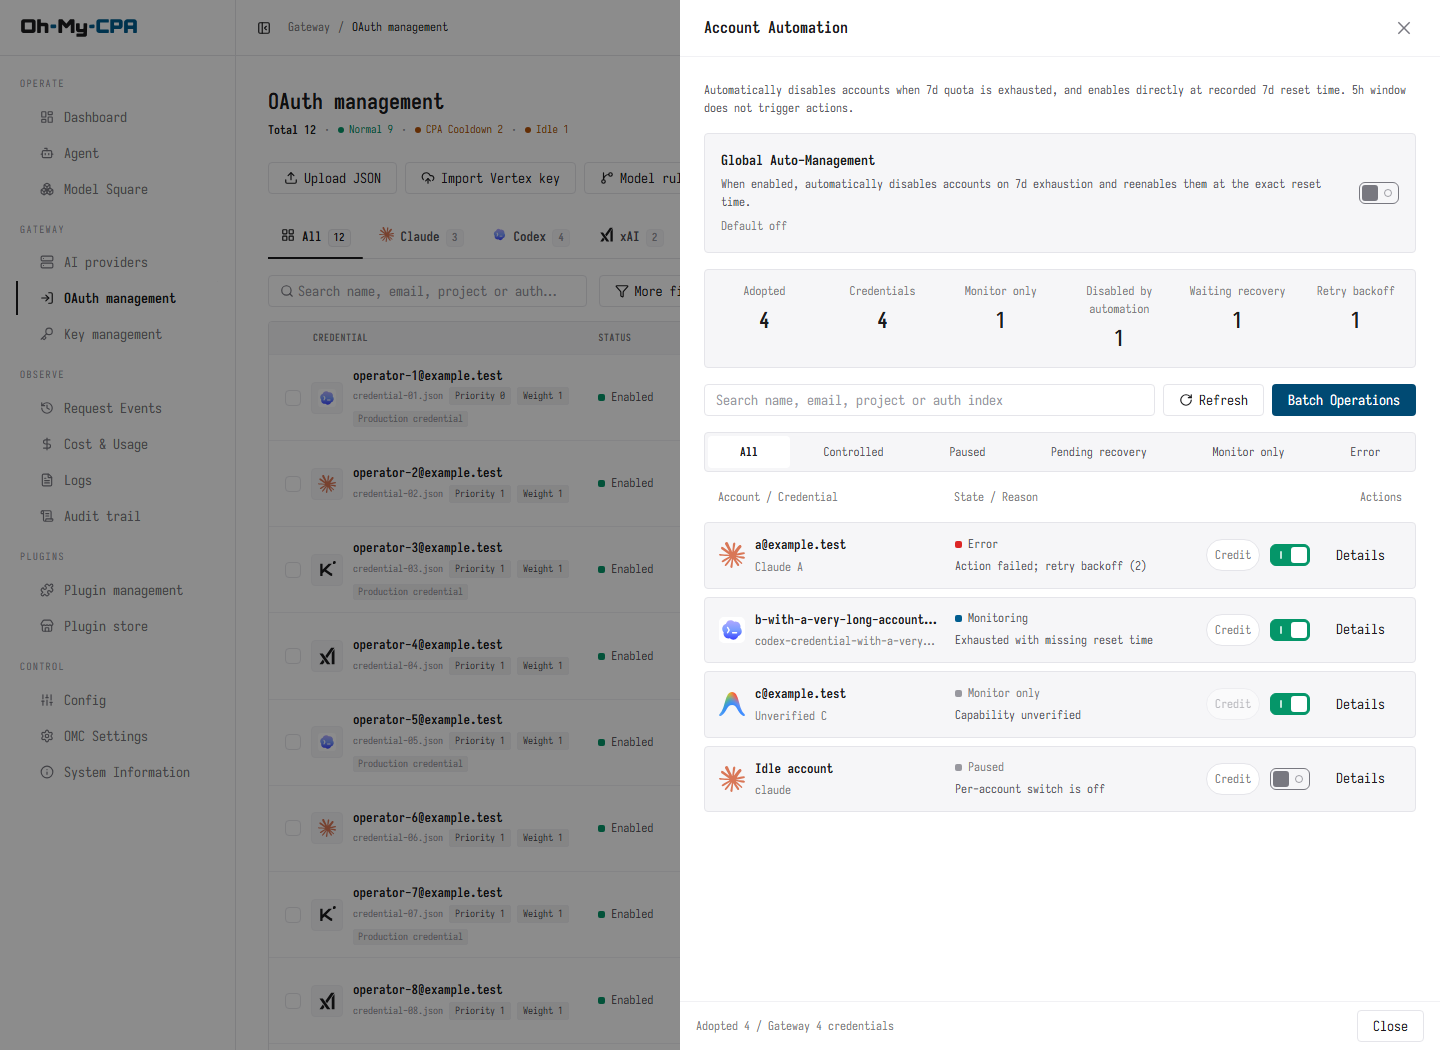
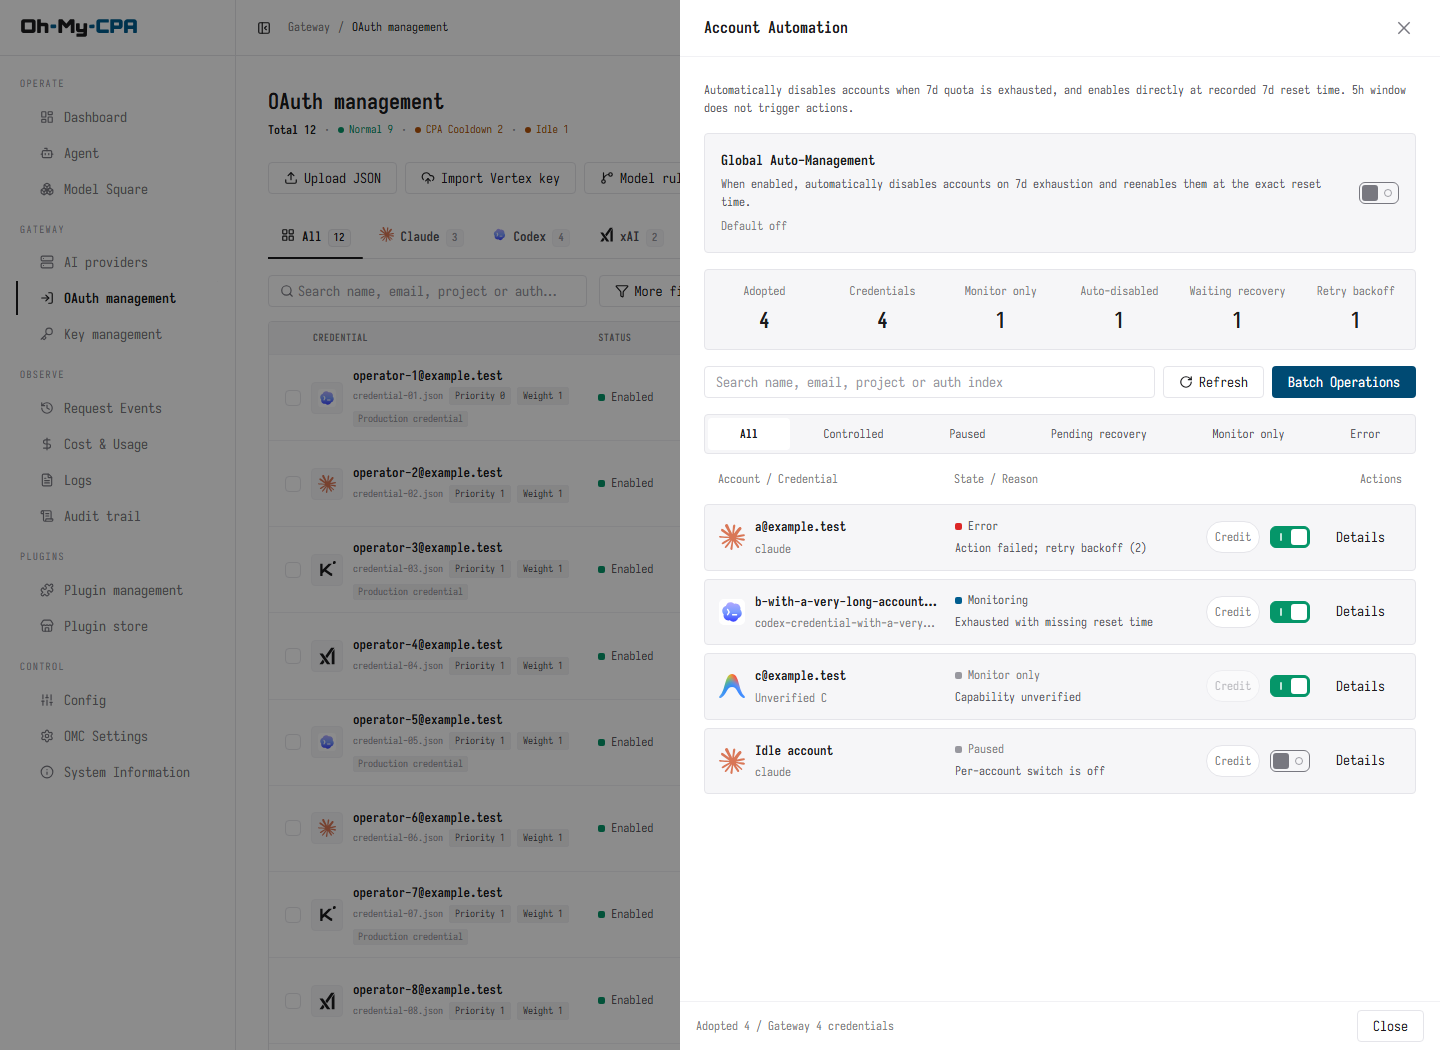
fix(automation): preserve identity mismatch reasons and drawer coverage

diff --git a/web/tests/account-automation.component.test.tsx b/web/tests/account-automation.component.test.tsx
@@ -85,6 +85,32 @@ it.each(['en', 'zh-CN'])('keeps active recovery distinct from historical timesta
   expect(row('Monitor').textContent).not.toMatch(/not auto-disabled|不参与自动关/);
 });
 
+it.each(['en', 'zh-CN'])('explains identity mismatch without pointing to empty error details (%s)', async lang => {
+  localStorage.setItem('omc-lang', lang);
+  mount(snapshot([account('Mismatched evidence', { state: 'monitoring', monitor_reason: 'evidence_identity_mismatch', last_error: '' })]));
+  await screen.findByText('Mismatched evidence');
+  const card = row('Mismatched evidence');
+  expect(card.querySelector('.status-label')?.textContent).toBe(lang === 'en' ? 'Error' : '异常');
+  expect(card.textContent).toContain(lang === 'en' ? 'Identity mismatch, auto-action paused' : '凭据与观测身份不一致，暂停自动操作');
+  expect(card.textContent).not.toMatch(/see details|查看详情/);
+});
+
+it('uses friendly roster and adoption labels for prefixed and standalone auth indexes', async () => {
+  const accounts = [
+    account('prefixed', { auth_index: 'aaaaaaaaaaaaaaaa', account_label: 'aaaaaaaaaaaaaaaa: Friendly Claude', name: 'aaaaaaaaaaaaaaaa' }),
+    account('standalone', { auth_index: 'bbbbbbbbbbbbbbbb', account_label: 'bbbbbbbbbbbbbbbb', name: 'Friendly Codex' }),
+  ];
+  const data = snapshot(accounts);
+  data.candidates = data.candidates.map(candidate => ({ ...candidate, adopted: false }));
+  mount(data);
+  await screen.findByRole('article', { name: 'Friendly Claude' });
+  expect(row('Friendly Codex')).toBeDefined();
+  fireEvent.click(screen.getByRole('button', { name: 'Batch Operations' }));
+  expect(screen.getByRole('checkbox', { name: 'Friendly Claude' })).toBeDefined();
+  expect(screen.getByRole('checkbox', { name: 'Friendly Codex' })).toBeDefined();
+  for (const account of accounts) expect(document.body.textContent).not.toContain(account.auth_index);
+});
+
 it('Credit sends only burn_credit, retains recovery, and locks repeated mutation until refreshed', async () => {
   let data = snapshot([account('Recovering', { state: 'disabled', disabled_by_automation: true, recovery_at_ms: Date.now() + 86400000, recovery_status: 'scheduled' })]);
   mount(data);

diff --git a/scripts/test-account-automation.ts b/scripts/test-account-automation.ts
@@ -26,6 +26,20 @@ test('display precedence preserves pause, capability, error and recovery ahead o
   assert.equal(automationRowReasonKey(projectAutomationAccount(account({ auto_disable_supported: false, monitor_reason: 'no_weekly_evidence' }))), 'automation.reason_capability_short');
 });
 
+test('identity mismatch retains its specific reason without an execution error', () => {
+  const row = projectAutomationAccount(account({ state: 'monitoring', monitor_reason: 'evidence_identity_mismatch' }));
+  assert.equal(row.state, 'error');
+  assert.equal(automationRowReasonKey(row), 'automation.reason_evidence_identity_mismatch');
+});
+
+test('a pending retry independently projects an error from monitoring', () => {
+  const row = projectAutomationAccount(account({ state: 'monitoring', next_attempt_at_ms: 2000 }));
+  assert.equal(row.hasBackoff, true);
+  assert.equal(row.state, 'error');
+  assert.equal(matchesAutomationFacet(row, 'error'), true);
+  assert.equal(automationRowReasonKey(row), 'automation.reason_retry_count');
+});
+
 test('statistics and facets share roster facts, retained plans overlap explicitly and tombstones stay absent', () => {
   const accounts = [account(), account({ is_enabled: false, disabled_by_automation: true, recovery_status: 'scheduled', recovery_at_ms: 1000 }),
     account({ state: 'error', next_attempt_at_ms: 2000, recovery_status: 'overdue', recovery_at_ms: 1000 }),

diff --git a/web/src/components/automation/accountAutomationModel.ts b/web/src/components/automation/accountAutomationModel.ts
@@ -76,7 +76,10 @@ export function automationRowReasonKey(row: AutomationRow) {
   if (row.isMonitorOnly) return automationReasonKey(
     ['credential_not_found', 'credential_missing_name', 'no_controllable_credential'].includes(row.reason ?? '')
       ? row.reason : 'unverified_account_weekly_capability');
-  if (row.hasError) return row.hasBackoff ? 'automation.reason_retry_count' : 'automation.reason_action_failed';
+  if (row.hasError) {
+    if (row.reason === 'evidence_identity_mismatch') return automationReasonKey(row.reason);
+    return row.hasBackoff ? 'automation.reason_retry_count' : 'automation.reason_action_failed';
+  }
   if (row.hasRecovery) return row.account.recovery_status === 'overdue' ? 'automation.recovery_overdue' : 'automation.recovery_at';
   if (row.state === 'credit') return 'automation.reason_credit';
   if (row.state === 'disabled') return 'automation.reason_exhausted';

diff --git a/web/src/i18n/index.tsx b/web/src/i18n/index.tsx
@@ -3948,7 +3948,7 @@ const DICT: Record<string, [string, string]> = {
   'automation.adoption_summary': ['已接管 {adopted} / 网关共 {total} 凭据', 'Adopted {adopted} / Gateway {total} credentials'],
   'automation.stat_monitoring': ['监控中', 'Monitoring'],
   'automation.stat_monitor_only': ['只监控', 'Monitor only'],
-  'automation.stat_disabled': ['已自动停用', 'Disabled by automation'],
+  'automation.stat_disabled': ['已自动停用', 'Auto-disabled'],
   'automation.stat_waiting': ['等待恢复', 'Waiting recovery'],
   'automation.stat_error': ['重试避退', 'Backoff error'],
   'automation.btn_adopt': ['批量接管账号', 'Adopt Accounts'],
